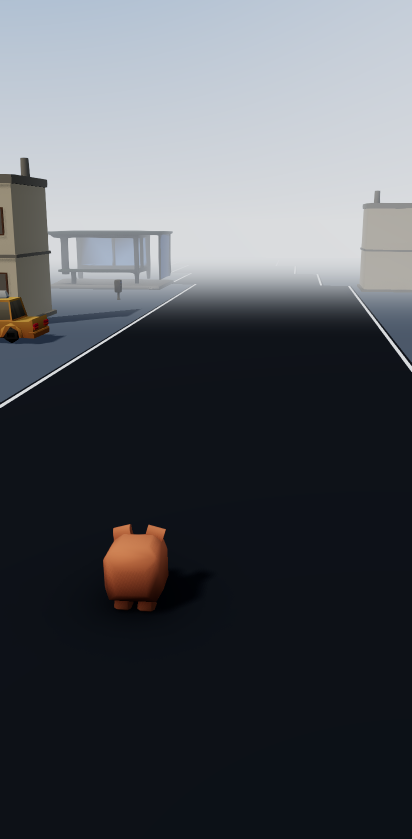
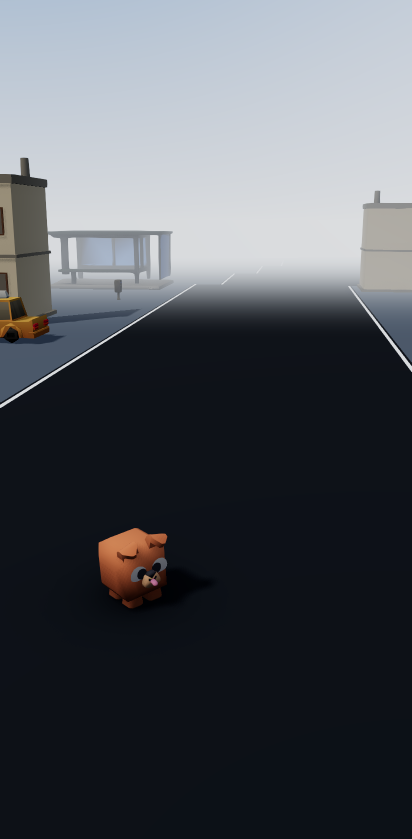
fix(voyage): show the hero's face at the start
On the city walk the dog stood with its back to the camera at the start and astra saw a brown animal with two upright ears. A hero that travels on land now faces the camera in a 3/4 view while the game waits at tick 0 and turns along the course once the run starts. Render only: the body's yaw is not in the hashed state. A side camera was not an option: on a phone the course leaves the narrow frame (T7).

__playFrame reports heroFacing, the angle between the hero's gaze and the direction to the camera. e2e p32-voyage hero framing: dog start <= 60 deg, run >= 120 deg; red before (start 167/158 deg), now start 35 deg, run 157-165 deg, course ahead 4.6 s, dog 10.6-12.3 % of the height, pirate unchanged (boat yaw untouched); 4/4.

implementation-notes: applies to every voyage with motion 'vehicle' (a car shows its front at the start too); the boat and the lander keep their own yaw.

Changed region(s): [[0.233, 0.6198, 0.4078, 0.7437]]

diff --git a/src/components/play/arcade/steer/VoyageHero.tsx b/src/components/play/arcade/steer/VoyageHero.tsx
@@ -4,7 +4,8 @@
  * Hrdina Plavby (P32F T4) – pohyb podle třídy, jen obraz (hash ani kolize se
  * nehnou): loď se houpe na vlně a naklání do zatáčky, kolem ní pění voda a za
  * zádí zůstává brázda; přistávač klopí podle náklonu z jádra (`aux0`), při tahu
- * mu šlehá plamen, u země víří kouř a v rychlém letu kolem něj letí šmouhy.
+ * mu šlehá plamen, u země víří kouř a v rychlém letu kolem něj letí šmouhy;
+ * hrdina po souši na startu kouká ke kameře a s rozjezdem se otočí po trati.
  *
  * Běží po `World` (připojí se až s rozvržením, o snímky později): World každý
  * snímek píše polohu a výšku těla, tady se k tomu jen přičte houpání a natočení.
@@ -27,6 +28,9 @@ const DEG = Math.PI / 180;
 const TICKS_PER_S = 60;
 /** Pěna leží kousek nad klidnou hladinou (0,3 m, `SteerScene.tsx`) plus vlnou. */
 const FOAM_Y = 0.42;
+/** Hrdina po souši na startu: o kolik je natočený od přímého pohledu do kamery (3/4 profil), a jak rychle se s rozjezdem otočí po trati (1/s). */
+const FACE_TURN = 35 * DEG;
+const TURN_BACK = 8;
 
 /** Jedna částice: poloha, rychlost (m/s), věk a délka života (s), velikost a směr protažení. */
 interface Particle {
@@ -110,6 +114,7 @@ const rand = (spread: number): number => (Math.random() - 0.5) * 2 * spread;
 
 export function VoyageHero({ session, layout, look, waveAt }: { readonly session: ArcadeSession; readonly layout: VoyageLayout; readonly look: Look; readonly waveAt: ((x: number, z: number, seconds: number) => number) | null }) {
   const scene = useThree((three) => three.scene);
+  const camera = useThree((three) => three.camera);
   const hero = useRef<Object3D | null>(null);
   const wake = useRef<InstancedMesh>(null);
   const sparks = useRef<InstancedMesh>(null);
@@ -155,6 +160,17 @@ export function VoyageHero({ session, layout, look, waveAt }: { readonly session
         body.rotation.set(-Math.atan(slope), m.yaw, m.roll + Math.atan(side) * 0.6);
       } else if (layout.motion === 'lander') {
         body.rotation.set(0, 0, (state[base + BODY.aux0] as number) * DEG);
+      } else if (layout.motion === 'vehicle') {
+        if ((state[HEADER.tick] as number) === 0) {
+          // Na startu kouká hrdina ze 3/4 ke kameře (P35 T12): zezadu byl pes „brown animal
+          // with two upright ears“. Kamera z boku nejde – trať by na výšku vyjela z obrazu (T7).
+          const toward = Math.atan2(camera.position.x - x, camera.position.z - z) + FACE_TURN;
+          m.yaw = Math.atan2(Math.sin(toward), Math.cos(toward));
+        } else {
+          // Rozjezd: otočí se po trati.
+          m.yaw -= m.yaw * Math.min(1, dt * TURN_BACK);
+        }
+        body.rotation.y = m.yaw;
       }
       if (foam.current !== null && waveAt !== null) {
         // Nad vlnou pod lodí – rovná hladina by pěnu v údolí vlny překryla.

diff --git a/e2e/p32-voyage.spec.ts b/e2e/p32-voyage.spec.ts
@@ -299,8 +299,16 @@ const AHEAD_S = 2;
 
 const T7_SHOTS = join(process.cwd(), 'evals/play/p35/T7');
 
-/** Podíl výšky obrazu, který hrdina zabírá, a sekundy trati v záběru; snímek plátna do `evals/play/p35/T7/`. */
-async function measureFrame(page: Page, name: string): Promise<{ readonly share: number; readonly ahead: number }> {
+/**
+ * Pes zezadu je „brown animal with two upright ears“ (přejímka kola 2, P35 T12): na startu
+ * kouká ke kameře nanejvýš o tolik stupňů od přímého pohledu (3/4 profil, ať je vidět
+ * tvář), za jízdy aspoň o tolik – kouká po trati.
+ */
+const FACE_AT_START_DEG = 60;
+const FACE_ON_RUN_DEG = 120;
+
+/** Podíl výšky obrazu, který hrdina zabírá, sekundy trati v záběru a úhel hrdiny od kamery; snímek plátna do `evals/play/p35/T7/`. */
+async function measureFrame(page: Page, name: string): Promise<{ readonly share: number; readonly ahead: number; readonly facing: number }> {
   const frame = await page.evaluate(() => window.__playFrame!());
   expect(frame.hero, `${name}: hrdina v záběru`).not.toBeNull();
   expect(frame.hero!.behind, `${name}: hrdina před kamerou`).toBe(false);
@@ -308,10 +316,11 @@ async function measureFrame(page: Page, name: string): Promise<{ readonly share:
   mkdirSync(T7_SHOTS, { recursive: true });
   await page.locator('[data-testid="arcade-stage"] canvas').first().screenshot({ path: join(T7_SHOTS, `${name}.png`), scale: 'css' });
   const share = frame.hero!.heightPx / frame.height;
-  const line = `${name}: hrdina ${(share * 100).toFixed(1)} % výšky (${frame.hero!.widthPx.toFixed(0)}×${frame.hero!.heightPx.toFixed(0)} px), trať v záběru ${ahead.toFixed(1)} s plnou rychlostí`;
+  const facing = frame.heroFacing!;
+  const line = `${name}: hrdina ${(share * 100).toFixed(1)} % výšky (${frame.hero!.widthPx.toFixed(0)}×${frame.hero!.heightPx.toFixed(0)} px), trať v záběru ${ahead.toFixed(1)} s plnou rychlostí, od kamery ${facing.toFixed(0)}°`;
   test.info().annotations.push({ type: 'frame', description: line });
   console.log(line);
-  return { share, ahead };
+  return { share, ahead, facing };
 }
 
 /**
@@ -357,6 +366,11 @@ for (const [device, use, minShare] of [
         for (const [moment, frame] of [['start', start], ['run', run]] as const) {
           expect(frame.share, `${moment}: podíl výšky obrazu, který hrdina zabírá`).toBeGreaterThanOrEqual(minShare);
           expect(frame.ahead, `${moment}: sekundy trati před hrdinou v záběru`).toBeGreaterThanOrEqual(AHEAD_S);
+        }
+        // Loď se natáčí jen do zatáčky; tvář má jen pes.
+        if (id === 'dog') {
+          expect(start.facing, 'start: pes kouká ke kameře (°)').toBeLessThanOrEqual(FACE_AT_START_DEG);
+          expect(run.facing, 'jízda: pes kouká po trati (°)').toBeGreaterThanOrEqual(FACE_ON_RUN_DEG);
         }
       });
   });

diff --git a/src/components/play/arcade/ArcadeStage.tsx b/src/components/play/arcade/ArcadeStage.tsx
@@ -15,7 +15,7 @@
 
 import { Canvas, addAfterEffect, useThree } from '@react-three/fiber';
 import { type ReactNode, memo, useEffect, useMemo, useRef, useState, useSyncExternalStore } from 'react';
-import { Box3, type Camera, type Mesh, type Object3D, type SkinnedMesh, Vector3 } from 'three';
+import { Box3, type Camera, type Mesh, type Object3D, Quaternion, type SkinnedMesh, Vector3 } from 'three';
 
 import { baseControlOf } from '@/play/arcade/addons';
 import { AXIS_MAX, BUTTON } from '@/play/arcade/contract';
@@ -67,6 +67,11 @@ export interface FrameReport {
   readonly width: number;
   readonly height: number;
   readonly hero: FrameBox | null;
+  /**
+   * Úhel (°) mezi tím, kam hrdina kouká (jeho +z), a směrem od něj ke kameře, ve vodorovné
+   * rovině: 0 = hledí do kamery, 180 = je k ní zády (P35 T12).
+   */
+  readonly heroFacing: number | null;
   readonly target: FrameBox | null;
   /** Kolik viditelných kandidátů na cíl scéna má. */
   readonly targets: number;
@@ -185,6 +190,13 @@ function frameOf(object: Object3D, camera: Camera, width: number, height: number
   return { x: (minX + maxX) / 2, y: (minY + maxY) / 2, minX, maxX, minY, maxY, widthPx, heightPx, sizePx: Math.max(widthPx, heightPx), behind };
 }
 
+/** `FrameReport.heroFacing`: úhel mezi pohledem hrdiny (+z) a směrem ke kameře ve vodorovné rovině (°). */
+function facingOf(hero: Object3D, at: Vector3, camera: Camera): number {
+  const gaze = new Vector3(0, 0, 1).applyQuaternion(hero.getWorldQuaternion(new Quaternion())).setY(0);
+  const toCamera = camera.getWorldPosition(new Vector3()).sub(at).setY(0);
+  return (gaze.angleTo(toCamera) * 180) / Math.PI;
+}
+
 /** Při kreslení na požádání překreslí scénu po každé změně relace – restart, konec běhu, pauza. */
 function RedrawOnChange({ session }: { readonly session: ArcadeSession }) {
   const invalidate = useThree((three) => three.invalidate);
@@ -226,6 +238,7 @@ function FrameProbe({ control }: { readonly control: string }) {
         width: size.width,
         height: size.height,
         hero: hero === null ? null : frameOf(hero, camera, size.width, size.height),
+        heroFacing: hero === null || heroAt === null ? null : facingOf(hero, heroAt, camera),
         target: target === null ? null : frameOf(target.node, camera, size.width, size.height),
         targets: candidates.length,
         offset: target === null || heroAt === null ? null : { x: target.pos.x - heroAt.x, y: target.pos.y - heroAt.y, z: target.pos.z - heroAt.z },
